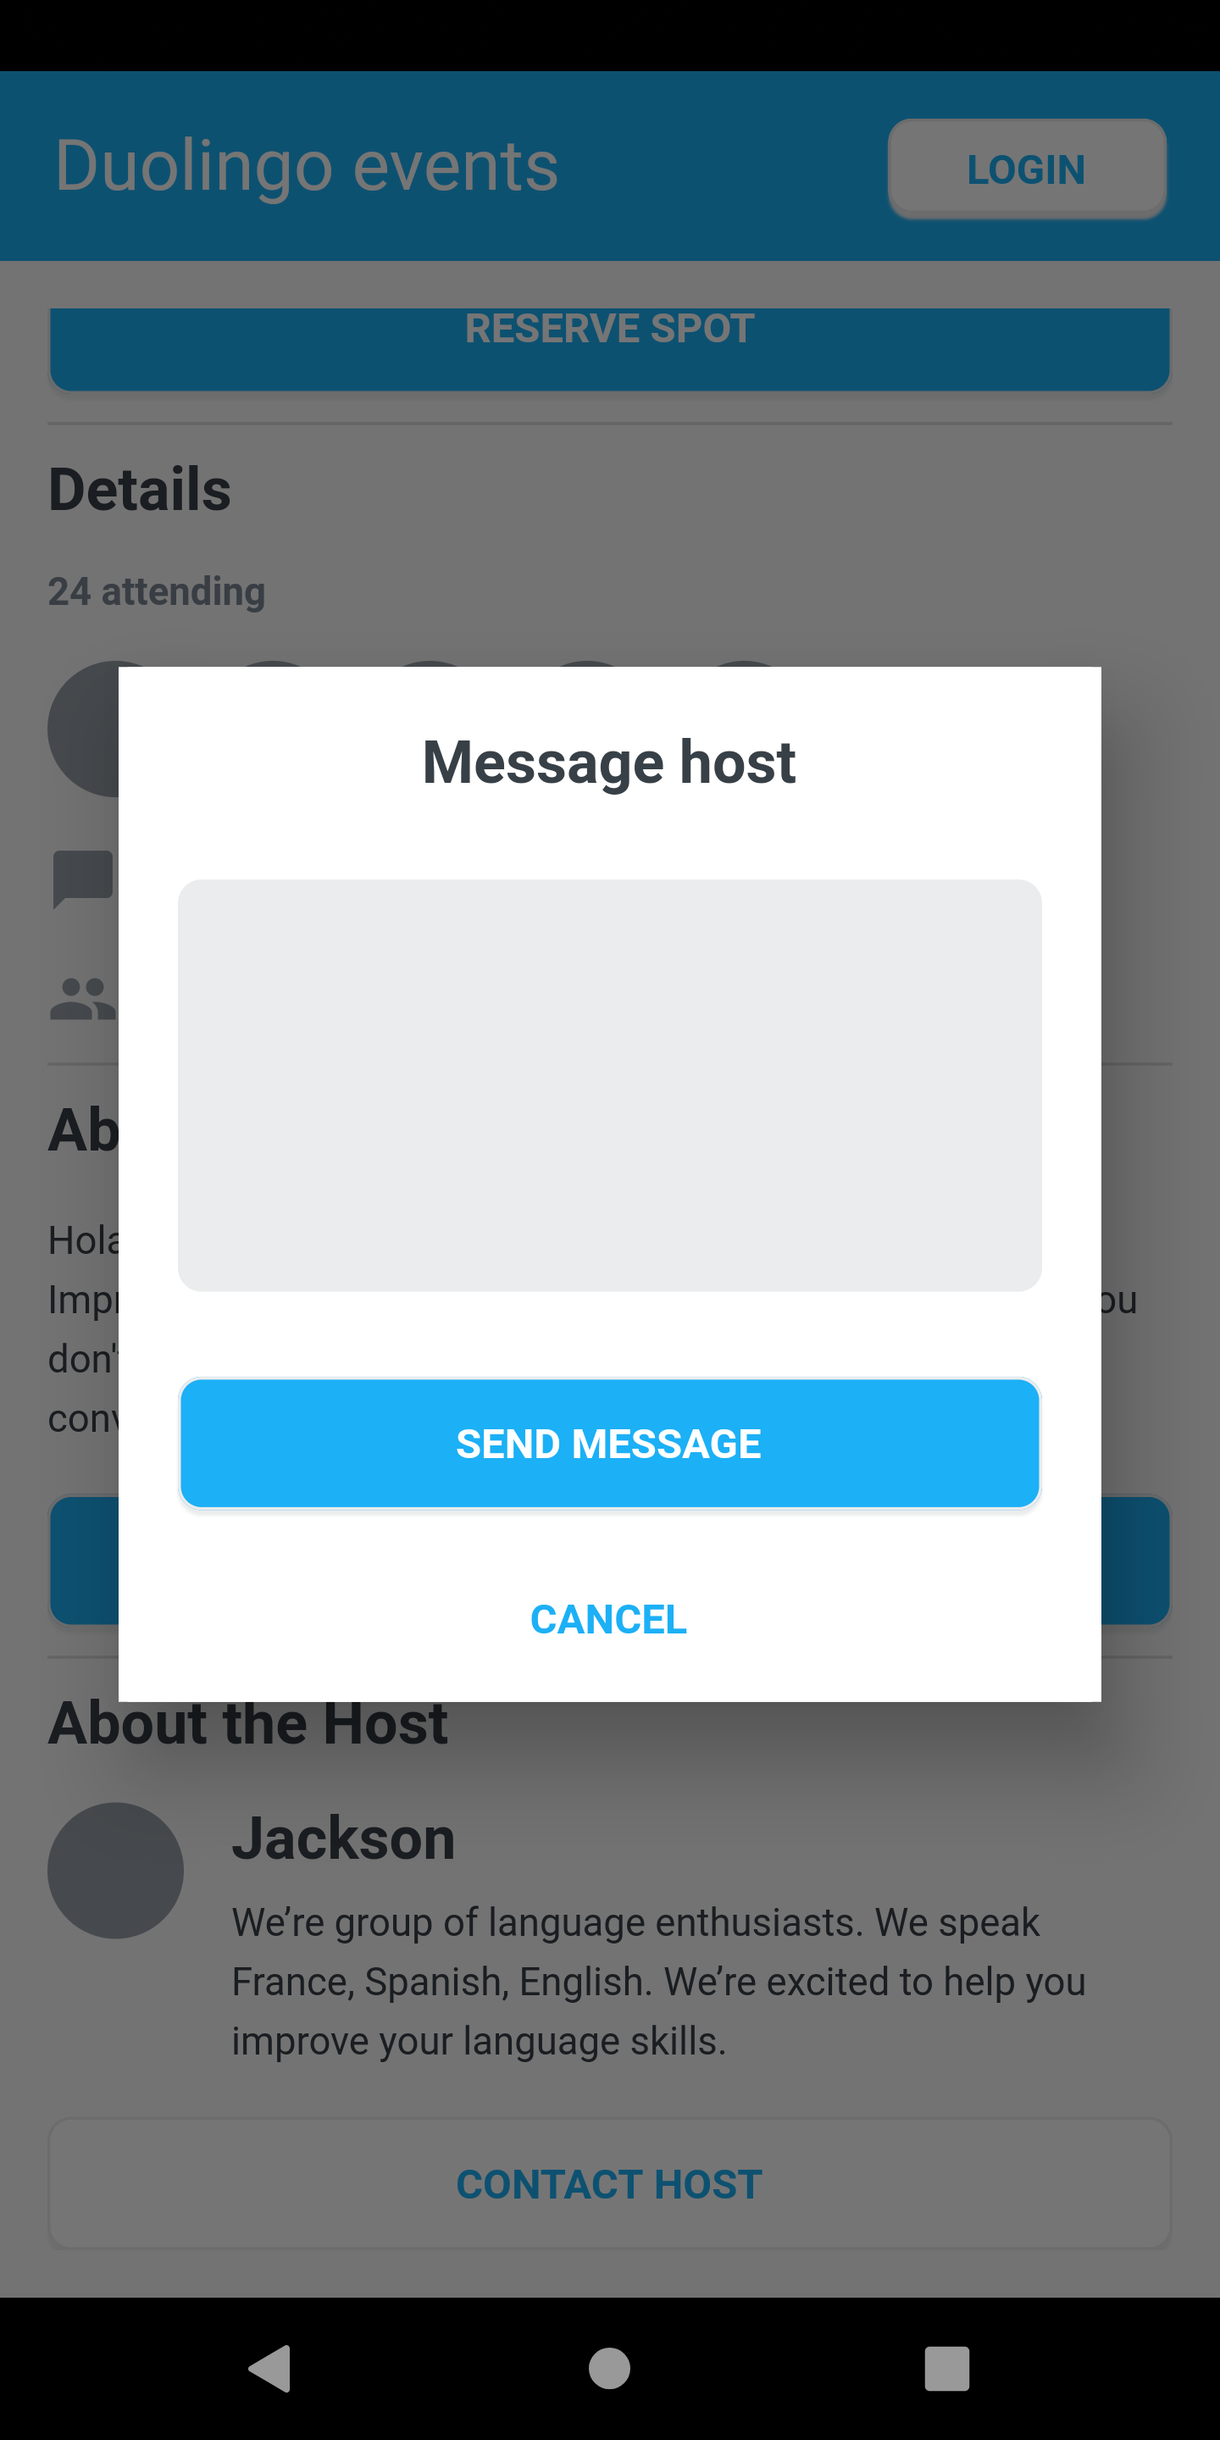
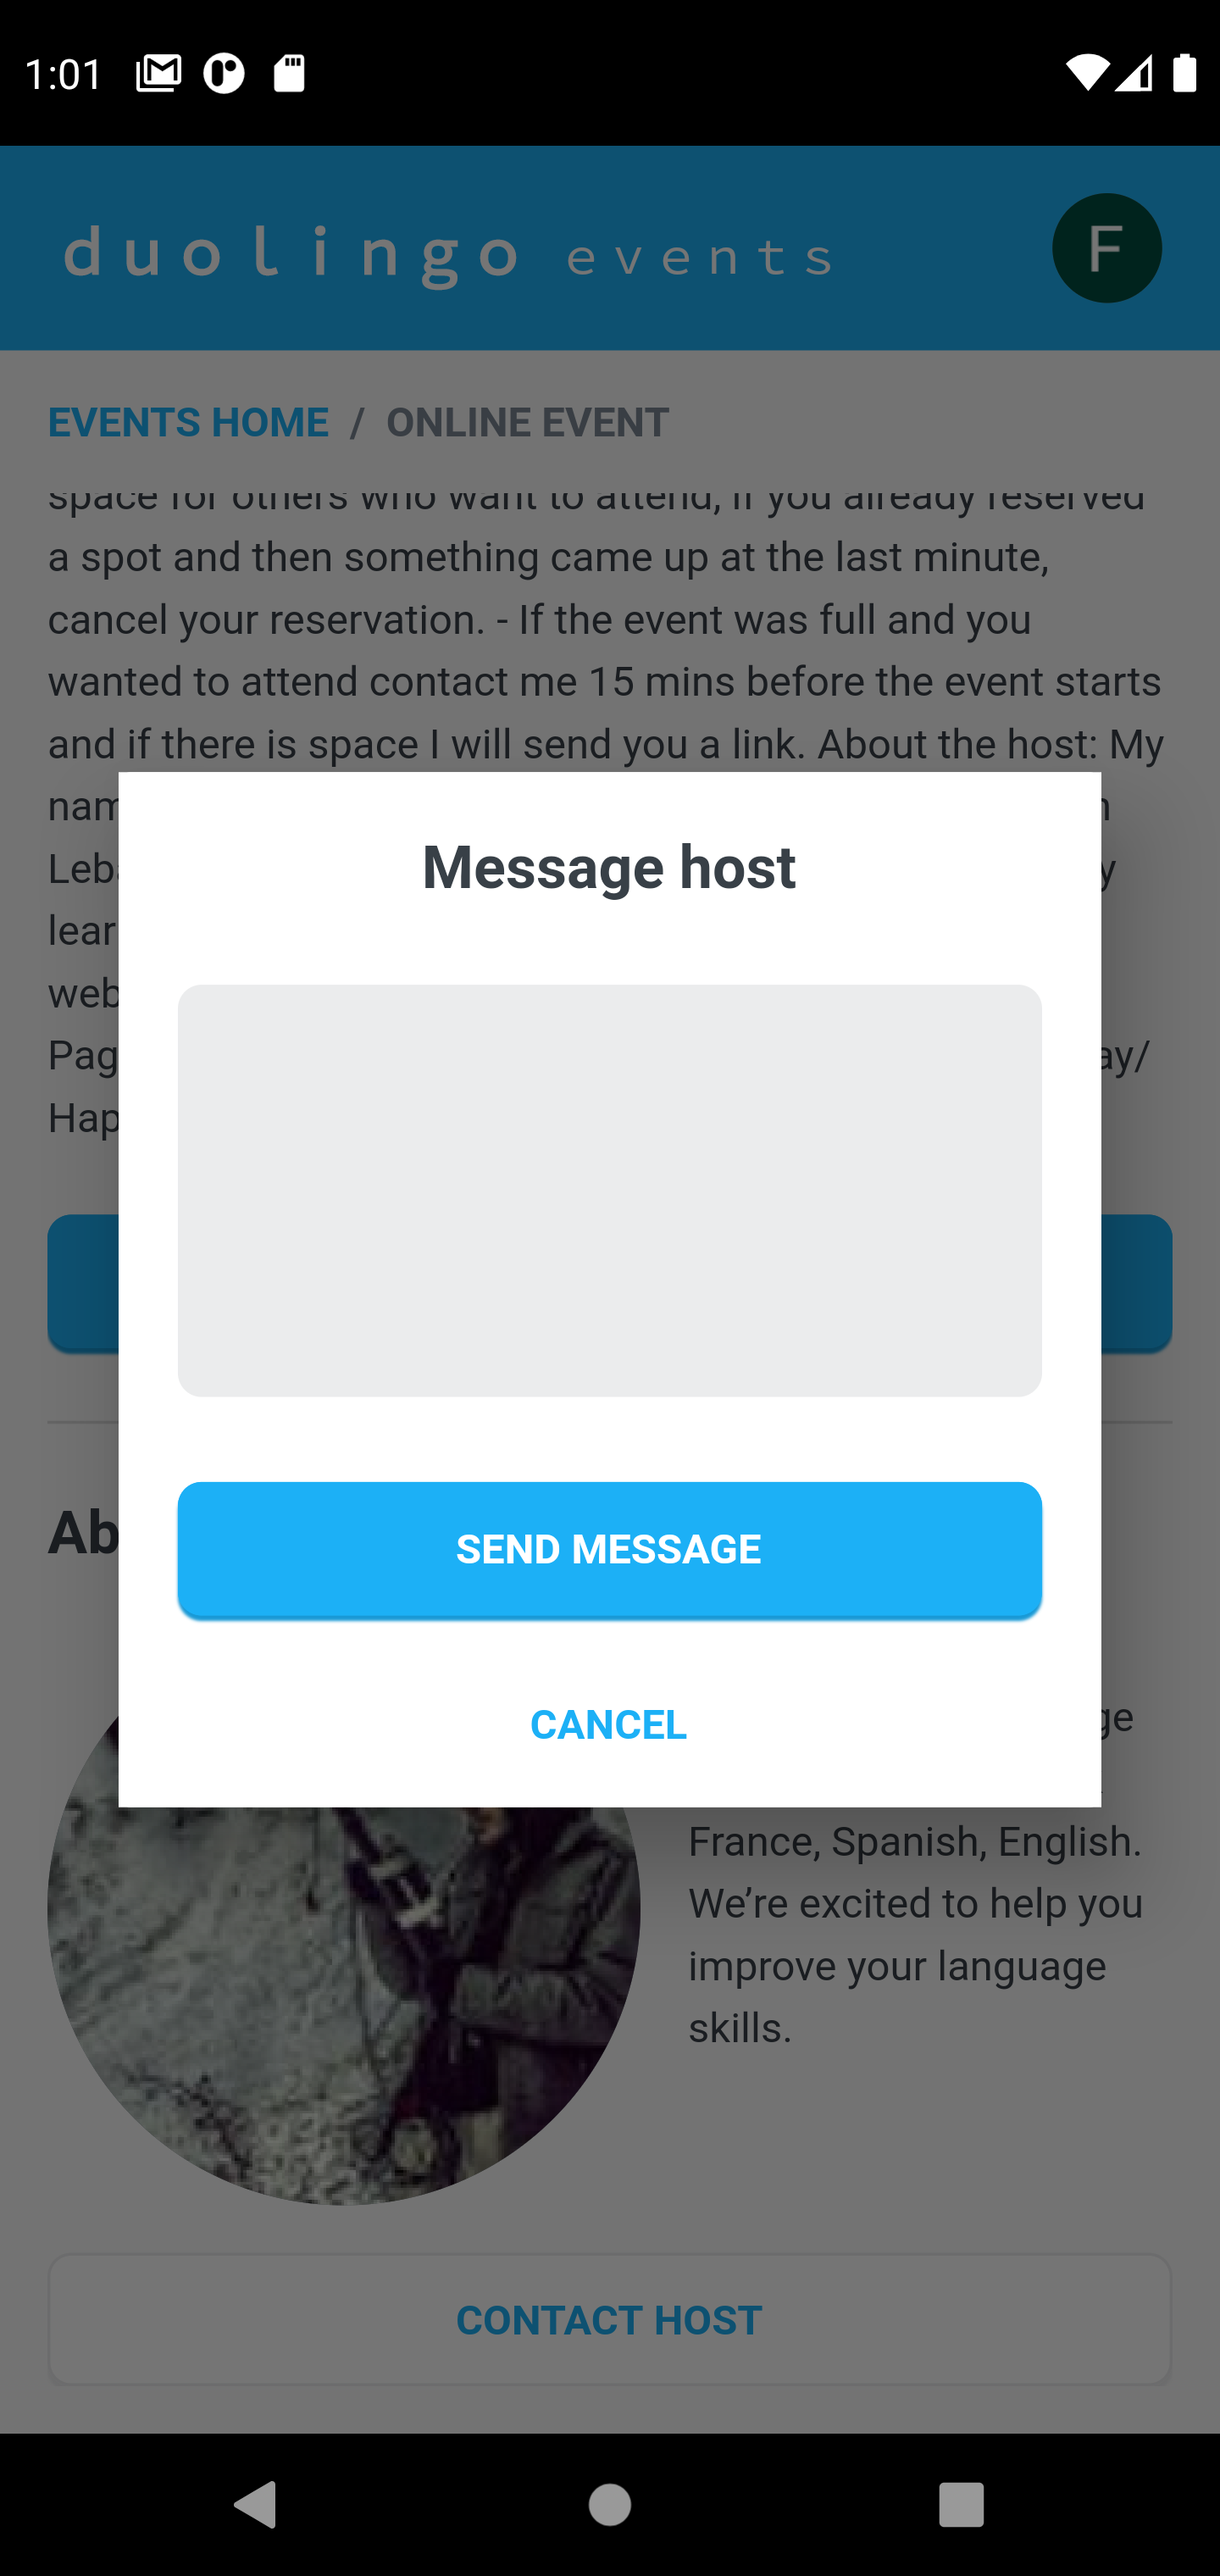
add_test_and_screenshot

diff --git a/lib/global/widget/drawer.dart b/lib/global/widget/drawer.dart
@@ -47,23 +47,24 @@ class _DuolingoDrawerState extends State<DuolingoDrawer> {
                     borderRadius: BorderRadius.all(Radius.circular(8.0)))),
             SizedBox(height: 16.0),
             ListTile(
-                leading: Icon(Icons.settings),
-                title: Text("Settings"),
-              ),
+              leading: Icon(Icons.settings),
+              title: Text("Settings"),
+            ),
             SizedBox(height: 16.0),
             ListTile(
-                leading: Icon(Icons.view_list_outlined),
-                title: Text("Attended events"),
-                onTap: () {
-                  Navigator.of(context).pushNamed('/attended');
-                },
-              ),
+              leading: Icon(Icons.view_list_outlined),
+              title: Text("Attended events"),
+              onTap: () {
+                Navigator.of(context).pushNamed('/attended');
+              },
+            ),
             SizedBox(height: 16.0),
             ListTile(
-                leading: Icon(Icons.logout),
-                title: Text("Logout"),
-                onTap: () => auth.signOut(),
-              ),
+              leading: Icon(Icons.logout),
+              title: Text("Logout"),
+              key: Key('logout'),
+              onTap: () => auth.signOut(),
+            ),
           ],
         ),
       ),

diff --git a/test_driver/login_test.dart b/test_driver/login_test.dart
@@ -11,7 +11,9 @@ void main() {
     final emailField = find.byValueKey('email_field');
     final passwordField = find.byValueKey('password_field');
     final loginBtn = find.byValueKey('login_button');
-    final duolingo_text = find.byValueKey('duolingo');
+    final appBar = find.byValueKey('appBar');
+    final logoutBtn = find.byValueKey('logout');
+    final avatar = find.byValueKey('avatar');
 
     setUpAll(() async {
       driver = await FlutterDriver.connect();
@@ -43,6 +45,18 @@ void main() {
       print('enter password');
       await driver.tap(loginBtn);
       print('login');
+      await (driver.waitFor(avatar));
+      print('ok');
+    });
+
+    test('Logout', () async {
+      await driver.tap(avatar);
+      await driver.tap(logoutBtn);
+      await driver.waitFor(emailField);
+    });
+
+    test('Create new account', () async {
+      //await driver.tap()
     });
   });
 }

diff --git a/lib/screens/event_home/event_home_screen.dart b/lib/screens/event_home/event_home_screen.dart
@@ -32,7 +32,7 @@ class _EventsScreenState extends State<EventsScreen> {
       child: Scaffold(
         key: _key,
         appBar: DuolingoAppBar(
-            key: Key('avatar'),
+            key: Key('appBar'),
             avatarOnpressed: () => _key.currentState.openDrawer()),
         drawer: DuolingoDrawer(),
         body: Padding(

diff --git a/lib/global/widget/appBar.dart b/lib/global/widget/appBar.dart
@@ -65,6 +65,7 @@ class _DuolingoAppBarState extends State<DuolingoAppBar> {
               //     ),
               onTap: () => widget.avatarOnpressed(),
               child: Avatar(
+                key: Key('avatar'),
                 url: auth.currentUser.photoURL,
                 size: 20.0,
               ),
